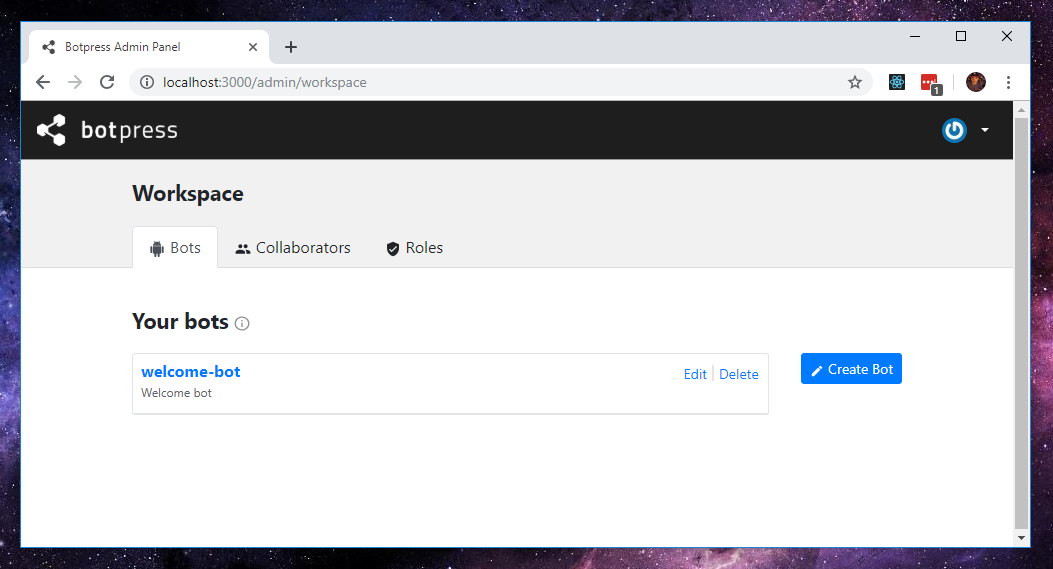
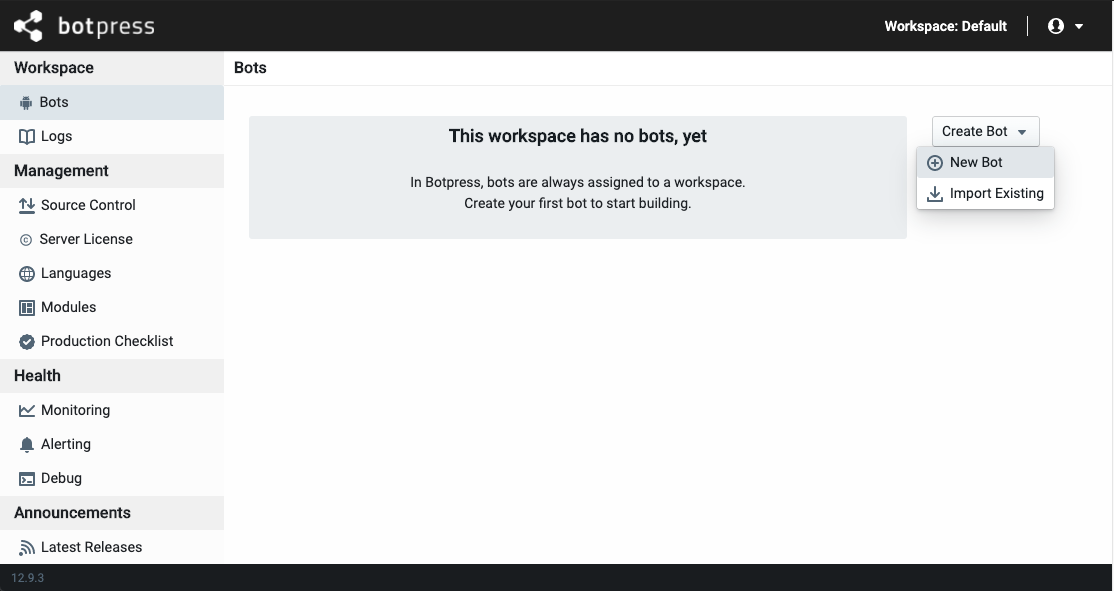
chore (docs): Updated Shortlink and Quick Start pages (#3373)
* chore (docs): Updated Shortlink page

Fixed the createShortLink function call.
Changed the name example to make it feel like a short link.
Added hook context to code example and expanded on it.

* chore(docs): Update event flow diagram

Including Before Outgoing Middleware and After Event Processed hooks.

* chore(docs): Update event flow

With version 2.2

* chore(docs): Delete obsolete event flow diagram

* chore(docs): Channels were migrated to their own section, not needed anymore

* chore(docs): Quick Start updated images

* chore(docs): Updated Quick Start

Rephrased to reflect the current UI.

* chore(docs): Deleted studio-toolbar.jpg

Replaced by studio-toolbar.png

* chore(docs): Delete emulator_ng.png

Replaced by debugger.png

* chore(docs): Updated rbac.md

Fixed a sentence that was confusing, and changed another to get in line with the new UI.

diff --git a/docs/guide/docs/quickstart.md b/docs/guide/docs/quickstart.md
@@ -10,7 +10,7 @@ The admin dashboard is the place where you'll be able to manage and configure ev
 - Create new bots
 - Manage your Botpress Pro license and sync with version control
 - Update your profile and your Botpress Account
-- Create new users and assign roles to them
+- Unpack and activate modules
 
 To open the Admin Dashboard, visit [`http://localhost:3000`](http://localhost:3000) in your favorite web browser. When you open the portal for the first time, you will be asked to register the main admin account
 
@@ -18,64 +18,69 @@ To open the Admin Dashboard, visit [`http://localhost:3000`](http://localhost:30
 
 In Botpress, bots are assigned to a workspace. When you start Botpress for the first time, you'll have a default workspace created automatically for you.
 
-Let's create a new bot by first navigating to your workspace, then click the "Create Bot" button.
+Let's create a new bot with the **Create Bot > New Bot** button.
 
 ![Create Bot](assets/workspace_bot.png)
 
-All you have to do is pick a name for your bot and a unique `Bot ID` will be generated for you.
+All you have to do is pick a name for your bot, a unique `Bot ID` will be generated for you, then select a bot template.
 
 > The **Bot ID** can't be changed in the future so it's important to pick a meaningful name. Also, bear in mind that this ID will be visible to the users of your bots.
 
-Once created, click on the bot to open the Studio interface and edit your bot.
+You may start from scratch with the Empty bot, or you can use one of the available templates for a quick demonstration of various features.
+
+Once created, click on the bot's name to open the Studio interface and edit your bot.
 
 ## Studio
 
-The Studio is the main interface you'll use to build and edit your bot. From here, you can:
+The Studio is the main interface you'll use to build and edit your bot. From here, among other things, you can:
 
 - Train an NLU model
 - Create dialog flows
+- Manage content
 - Test and debug your bot
 
-You will notice on the left there are a couple of sections available. Some of these are built inside Botpress (like _Content_ and _Flows_), where some are there because of modules installed. Indeed, Botpress is a highly modular platform and the majority of the features you will use are provided by the modules themselves.
+You will notice on the left there are a couple of sections available. Some of these are built inside Botpress (like _Content_ and _Flows_), where some are there because of modules installed. Indeed, Botpress is a highly modular platform and the majority of the features you will use are provided by the modules themselves. You may use experimental ones, or even develop your own modules.
 
 ### Test your bot
 
-To test your bot, there are two different kinds of emulators. You can use the built-in chat emulator located in the bottom right corner, which is exactly what your visitors will face when they speak with your bot. You can also start a new conversation with your bot by clicking the reset button.
+There is a chat emulator built in the studio with which you can test your bot. You can open this emulator from the button in the top right corner, or press 'E' while in the studio. It is made to represent what your visitors will face when they speak with your bot. You can reset the convertsation by clicking the reset button, or you can also start a new conversation with your bot with the conversations button.
 
-![Toolbar Chat](assets/studio-toolbar.jpg)
+![Toolbar Chat](assets/studio-toolbar.png)
 
-Open the chat window and say "_Hello_". The bot should greet you with something like "_May I know your name?_".
+*In the order presented: Debug, Reset, Download, Conversations, Close emulator.*
+
+Open the chat window and say "_Hello_". If you selected the **Welcome Bot** template, it should greet you with something like "_Hi, I'm Welcome Bot! My task is to help you understand how Botpress works._".
 
 ![Hello from the bot](assets/flow_page.png)
 
-There is another emulator, which is specifically designed for you (the bot owner) to understand quickly why the bot gives you a specific answer. That emulator is only available for authenticated users. It includes all sorts of useful information: a list of suggested answers by module, nlu intents, and the elected suggestion.
+You can get additional information from the emulator's debugger by selecting the debug button. This panel is specifically designed for you, as the bot owner, to understand quickly why you get a specific answer. Note that it is only available for authenticated users. It includes all sorts of useful information: the dialog engine's elected suggestion, nodes flowed through and natural language intents or questions. You can also view the raw JSON event that contains all details, if you need further data.
 
-![Emulator Hello](assets/emulator_ng.png)
+![Emulator Hello](assets/debugger.png)
 
 ### Question and Answer
 
-One of the modules shipped by default with Botpress is the QnA (Question and Answer) module. This module allows you to easily and quickly add knowledge to your bot without having to create a flow or code anything. QnA uses the NLU Engine behind the scene to detect the questions and automatically answer them.
+One of the modules shipped by default with Botpress is the Q&A (Question and Answer) module. This module allows you to easily and quickly add knowledge to your bot without having to create a flow or code anything. Q&A uses the NLU engine to detect the questions and automatically answer them.
 
-#### Adding a QnA
+#### Adding a Q&A
 
-1. Click the **QnA** panel on the left
-2. Click the "**Add New**" button
-3. Type in the "Questions" textbox a question, for example, "How old are you?". Then add as many different ways of asking the same question as you want.
-4. In the "Reply With", type the answer you want your bot to provide
-5. Click "**Save**"
+1. Click the **Q&A** panel on the left.
+2. Click the "**Add New**" button.
+3. Type in the "Questions" textbox any question, for example: "How old are you?". Then add as many different ways of asking the same question as you want.
+4. In the "Answers" section, type the message you want your bot to provide, then press Enter to commit the answer.
+5. Click "**Add**".
 
-The QnA module will automatically retrain the NLU model in the background and tell you when it's completed. You can speak again with your bot and it should respond to your question correctly, even if you make some typos!
+The Q&A module will automatically retrain the NLU model in the background and tell you when it's completed, indicated in the bottom right. You can speak again with your bot and it should respond to your question correctly, even if you make some typos!
 
-##### QnA Example
+##### Q&A Example
 
-![A new QnA](assets/newqna.png)
+![A new Q&A](assets/newqna.png)
 
 ## Share your bot
 
 #### Standalone chat
 
-Congratulations on building your first bot! You can share this bot with your friends, it is available at `http://localhost:3000/s/<<Bot ID>>`.
+Congratulations on building your first bot! You can share this bot with your friends, provided they have access to your computer, it is available at `http://localhost:3000/s/<<Bot ID>>`.
 
 #### Embed on a website
 
-You can also embed this bot on a website, there's an example provided in `assets/modules/channel-web/examples/embedded-webchat.html`, which you can see by browsing [**here**](http://localhost:3000/assets/modules/channel-web/examples/embedded-webchat.html).
+You can also embed this bot on a website. There is an example provided in `assets/modules/channel-web/examples/embedded-webchat.html`, which you can see by browsing [**here**](http://localhost:3000/assets/modules/channel-web/examples/embedded-webchat.html).

diff --git a/docs/guide/docs/tutorials/shortlinks.md b/docs/guide/docs/tutorials/shortlinks.md
@@ -10,10 +10,12 @@ This has a number of advantages:
 1. Short URLs - no one likes a long URL
 2. Flexibility - it allows you to change any of the parameters without affecting the URL
 
-Below is an example where our new shortlink `/s/fullscreen-webchat` will redirect a user to `/lite/bot123?m=platform-webchat&v=fullscreen` (the standard webchat interface) with any additional parameters you specify in the options object.
+Below is an example where our new shortlink `/s/fs-wc` will redirect a user to `/lite/botId?m=platform-webchat&v=fullscreen` (the standard webchat interface) with any additional parameters you specify in the options object.
+
+Create a bot-scoped after_bot_mount hook with this:
 
 ```js
-bp.http.createShortlink('fullscreen-webchat', '/lite/bot123', {
+bp.http.createShortLink('fs-wc', `${process.EXTERNAL_URL}/lite/${botId}/`, {
   m: 'channel-web',
   v: 'fullscreen',
   options: JSON.stringify({
@@ -22,4 +24,12 @@ bp.http.createShortlink('fullscreen-webchat', '/lite/bot123', {
     }
   })
 })
+```
+
+See the views' [Config](https://github.com/botpress/botpress/blob/master/modules/channel-web/src/views/lite/typings.d.ts#L130) object for all available options.
+
+It is recommended to also create a hook after_bot_unmount, to remove the shortlink when the bot is disabled; here is the corresponding example:
+
+```js
+bp.http.deleteShortLink('fs-wc')
 ```

diff --git a/docs/guide/docs/pro/rbac.md b/docs/guide/docs/pro/rbac.md
@@ -11,7 +11,7 @@ By default, Botpress ships with three roles (administrator, developer and conten
 
 ## Assigning a role to a collaborator
 
-From the Administration dashboard, navigate to the "Collaborators" tab and click the "more" arrow on any collaborator to change its role to an existing role.
+From the Administration dashboard, navigate to the "Collaborators" tab and click the **Action** button on any collaborator to change its role to an existing role.
 
 ![RBAC](assets/rbac.png)
 
@@ -29,7 +29,7 @@ For example the following rules:
 2. `+w` on `bot.content`
 3. `-r` on `bot.flows`
 
-Means the user will _see_ everything but the flows, and won't be able to _change_ anything but flows.
+Means the user will _see_ everything but the flows, and won't be able to _change_ anything but content.
 
 ### Operations (op)
 

diff --git a/docs/guide/docs/main/overview.md b/docs/guide/docs/main/overview.md
@@ -109,4 +109,4 @@ A module is an extra component outside of the Botpress Core itself that you can 
 
 This is a complete overview of the components implied in processing an event (ex: a message sent by a user). It is mostly informational, you won't use directly most of these components; it's only to get a bigger picture of what is involved and how you can interact
 
-[![Event engine](assets/eventflow.png)](assets/eventflow.png)
+[![Event engine](assets/event_enginev2.2.png)](assets/event_enginev2.2.png)
